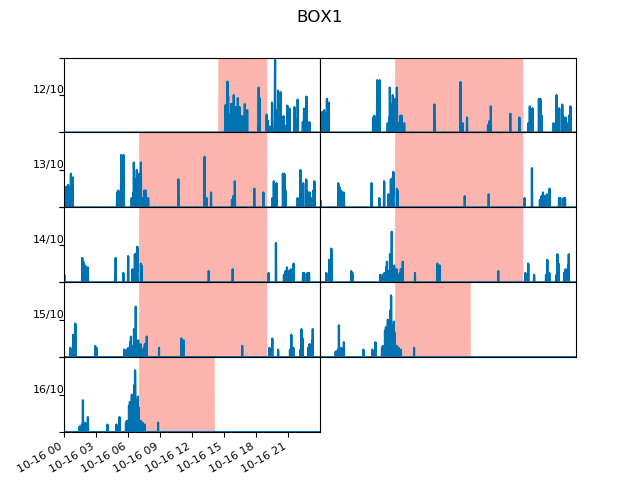
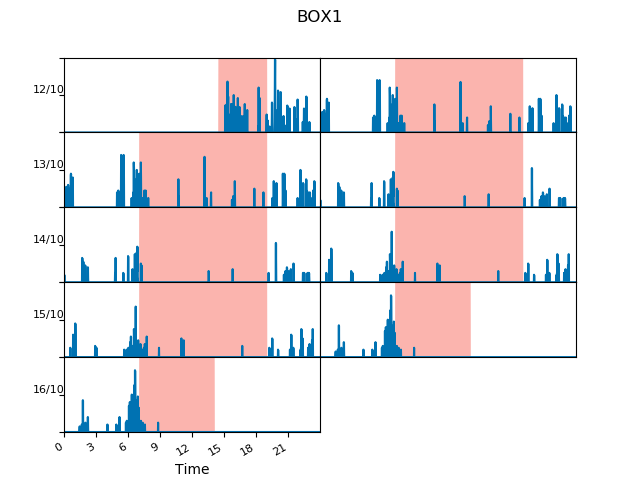
actogram completed

Changed region(s): [[0.0312, 0.9062, 0.4375, 1.0]]

diff --git a/actogram/actogram.py b/actogram/actogram.py
@@ -75,13 +75,12 @@ fig, axes = plt.subplots(nrows=n_group, ncols=2)
 # Plot the 1st column
 j = 0
 for name, group in dategroup:
-    group[pir].plot.area(
-        ax=axes[j, 0], sharey=True, fontsize=8)
+    group[pir].plot.area(ax=axes[j, 0], sharey=True, fontsize=8)
     (group[led]*50).plot.area(linewidth=0, ax=axes[j, 0],
                               colormap="Pastel1", sharey=True)
-    # y_axis = axes[j, 0].axes.get_yaxis()
-    # y_axis.set_visible(False)
     axes[j, 0].axes.set_yticklabels([])
+    axes[j, 0].axes.set_xticklabels([0, 3, 6, 9, 12, 15, 18, 21])
+    axes[j, 0].axes.set_xlabel('Time')
     axes[j, 0].axes.set_ylabel(
         str(group[pir].index.date[0].day)+'/' + str(group[pir].index.date[0].month), rotation=0, size=8)
     if j < n_group-1:
